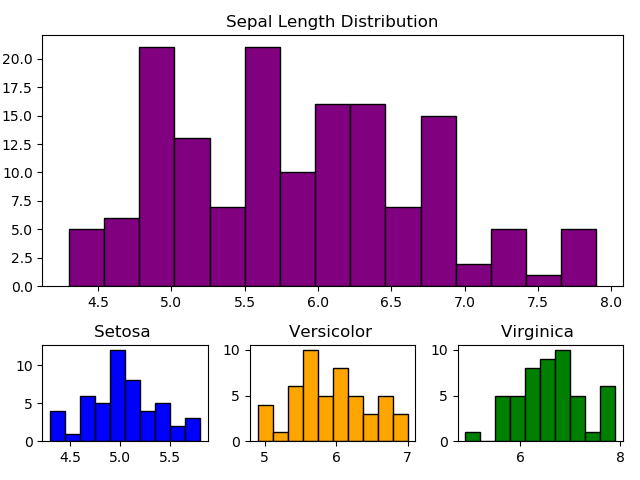
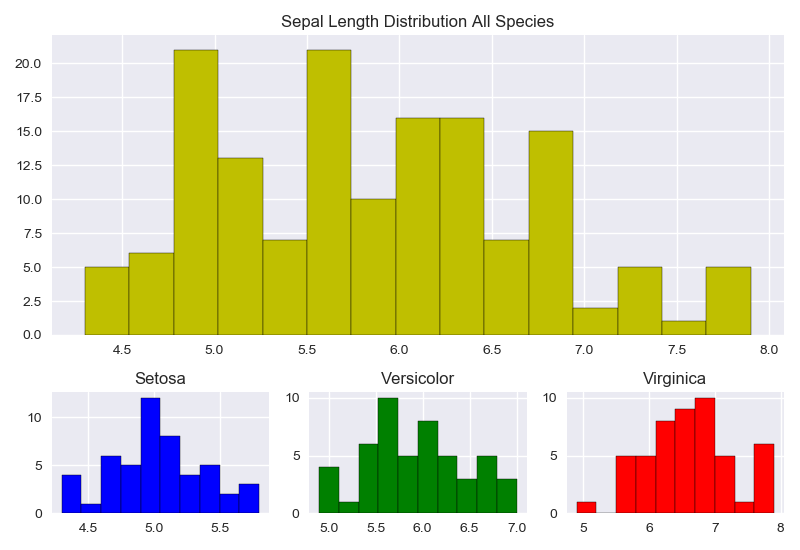
updated structure and comments, output scatter plots, changed list to tuple

diff --git a/analysis.py b/analysis.py
@@ -5,55 +5,83 @@
 # • saves a histogram of each variable to png files, and
 # • outputs a scatter plot of each pair of variables.
 
+# import needed libraries
 import numpy as np
 import pandas as pd
 import matplotlib.pyplot as plt
 import matplotlib.gridspec as gridspec
 import seaborn as sns
 
-def makehist(dict, col_name, title, fileout):
+# Defining a function for creating the output histograms
+# The function takes a number of vars to allow for customisation
+def makehist(dict, col_name, bintup, title, fileout):
+	plt.style.use('seaborn') # using the seaborn style sheet
+	# creating the plot figure fig
 	fig = plt.figure()
+	# using the grid spec method to create shape needed 
+	# for the 1 large hist and 3 smaller hists in figure fig
 	gs = gridspec.GridSpec(3, 3, figure=fig)
+	# adding first and largest hist
 	ax = fig.add_subplot(gs[:2, :])
-	ax.hist(dict["Entire Dataset"][col_name], bins=15, edgecolor="black",color="purple", label="Entire Dataset")
+	ax.hist(dict["Entire Dataset"][col_name], bins=bintup[0], 
+	edgecolor="black",color="y", label="Entire Dataset")
 	ax.set_title(title)
+	# adding next three smaller species hists
 	ax1 = fig.add_subplot(gs[2, 0])
-	ax1.hist(dict["Setosa"][col_name],bins=10, edgecolor="black", color="b", label="Setosa")
-	ax1.set_title("Setosa ")
-	ax2 = fig.add_subplot(gs[2, 1])
-	ax2.hist(dict["Versicolor"][col_name],bins=10, edgecolor="black", color="orange", label="Versicolor")
-	ax2.set_title("Versicolor ")
-	ax3 = fig.add_subplot(gs[2, 2])
-	ax3.hist(dict["Virginica"][col_name],bins=10, edgecolor="black", color="g",label="Virginica")
-	ax3.set_title("Virginica ")
-	fig.tight_layout()
-	fig.savefig(fileout)
+	ax1.hist(dict["Setosa"][col_name],bins=bintup[1], 
+	edgecolor="black", color="b", label="Setosa")
+	ax1.set_title("Setosa")
 
+	ax2 = fig.add_subplot(gs[2, 1])
+	ax2.hist(dict["Versicolor"][col_name],bins=bintup[1], 
+	edgecolor="black", color="g", label="Versicolor")
+	ax2.set_title("Versicolor")
+
+	ax3 = fig.add_subplot(gs[2, 2])
+	ax3.hist(dict["Virginica"][col_name],bins=bintup[1], 
+	edgecolor="black", color="r",label="Virginica")
+	ax3.set_title("Virginica")
+	# using the tight_layout method for better spacing of the plots
+	fig.tight_layout()
+	fig.savefig(fileout) # saving the figures to the file path fileout
+
+# load the iris data csv into a dataframs using pandas
 df = pd.read_csv("iris.csv")
 
+# initialise a dataframe for each species type
 setosa_df = df[df["species"] == "setosa"]
 versicolor_df = df[df["species"] == "versicolor"]
 virginica_df = df[df["species"] == "virginica"]
 
+# create the a brief summary of each dataframe using the describe method
 dfSum = str(df.describe())
 setosaSum = str(setosa_df.describe())
 versicolorSum = str(versicolor_df.describe())
 virginicaSum = str(virginica_df.describe())
 
-df_dict = {"Entire Dataset": df, "Setosa": setosa_df, 
-		"Virginica": virginica_df, "Versicolor": versicolor_df}
-
+# write each summary datafram to the file summary.txt
 with open("summary.txt", "w+") as f:
-	f.write("Total data set summary \n"+dfSum+"\n")
-	f.write("\nSetosa Species summary \n"+setosaSum+"\n")
-	f.write("\nVersicolor Species summary \n"+versicolorSum+"\n")
-	f.write("\nVirginica Species summary \n"+virginicaSum+"\n")
+	f.write("All Species Summary \n"+dfSum+"\n")
+	f.write("\nSetosa Species Summary \n"+setosaSum+"\n")
+	f.write("\nVersicolor Species Summary \n"+versicolorSum+"\n")
+	f.write("\nVirginica Species Summary \n"+virginicaSum+"\n")
 
-makehist(df_dict, "petal_length", "Petal Length Distribution", "Petal Length Histogram.png")
-makehist(df_dict, "petal_width", "Petal Width Distribution", "Petal Width Histogram.png")
-makehist(df_dict, "sepal_width", "Sepal Width Distribution", "Sepal Width Histogram.png")
-makehist(df_dict, "sepal_length", "Sepal Length Distribution", "Sepal Length Histogram.png")
+# create a dictionary with a label as key and dataframe as value
+df_dict = {"Entire Dataset": df, "Setosa": setosa_df, 
+"Virginica": virginica_df, "Versicolor": versicolor_df}
 
+# using the function makehist() create a histogram 
+# for each variable for each dataframe
+makehist(df_dict, "petal_length", (15, 10), 
+"Petal Length Distribution All Species", "Petal Length Histogram.png")
+makehist(df_dict, "petal_width", (15, 10), 
+"Petal Width Distribution All Species", "Petal Width Histogram.png")
+makehist(df_dict, "sepal_width", (15, 10), 
+"Sepal Width Distribution All Species", "Sepal Width Histogram.png")
+makehist(df_dict, "sepal_length", (15, 10), 
+"Sepal Length Distribution All Species", "Sepal Length Histogram.png")
 
-sns.pairplot(df, hue="species")
-plt.show()
+# using the seaborn pairplot method to plot 
+# a scatter plot for each pair of variables in the data
+scat = sns.pairplot(df, hue="species")
+plt.savefig("Scatter Pairs.png")

diff --git a/scratch.py b/scratch.py
@@ -1,0 +1,75 @@
+# def 4Hist(dfList, col):
+# 	ax1, ax2, ax3, ax4 = dfList
+
+# 	fig, (ax1, ax2, ax3, ax4) = plt.subplots(2, 2)
+import numpy as np
+import pandas as pd
+import matplotlib.pyplot as plt
+import matplotlib.gridspec as gridspec
+import seaborn as sns
+
+df = pd.read_csv("iris.csv")
+
+setosa_df = df[df["species"] == "setosa"]
+versicolor_df = df[df["species"] == "versicolor"]
+virginica_df = df[df["species"] == "virginica"]
+
+df_dict = {"Entire Dataset": df, "Setosa": setosa_df, 
+		"Virginica": virginica_df, "Versicolor": versicolor_df}
+
+def makehist(dict, col_name, title, fileout):
+	fig = plt.figure()
+	gs = gridspec.GridSpec(3, 3, figure=fig)
+	ax = fig.add_subplot(gs[:2, :])
+	ax.hist(dict["Entire Dataset"][col_name], bins=15, edgecolor="black",color="purple", label="Entire Dataset")
+	ax.set_title(title)
+	ax1 = fig.add_subplot(gs[2, 0])
+	ax1.hist(dict["Setosa"][col_name],bins=10, edgecolor="black", color="b", label="Setosa")
+	ax1.set_title("Setosa ")
+	ax2 = fig.add_subplot(gs[2, 1])
+	ax2.hist(dict["Versicolor"][col_name],bins=10, edgecolor="black", color="orange", label="Versicolor")
+	ax2.set_title("Versicolor ")
+	ax3 = fig.add_subplot(gs[2, 2])
+	ax3.hist(dict["Virginica"][col_name],bins=10, edgecolor="black", color="g",label="Virginica")
+	ax3.set_title("Virginica ")
+	fig.tight_layout()
+	fig.savefig(fileout)
+
+makehist(df_dict, "petal_length", "Petal Length Distribution", "Petal Length Histogram.png")
+input()
+
+# for col in df.columns:
+# 	fig = plt.figure()
+# 	gs = gridspec.GridSpec(3, 3, figure=fig)
+# 	ax = fig.add_subplot(gs[:2, :])
+# 	ax.hist(df[col],bins=10, edgecolor="black",color="purple", label="Total "+col+" distribution")
+# 	ax1 = fig.add_subplot(gs[2, 0])
+# 	ax1.hist(setosa_df[col],bins=10, edgecolor="black", color="b", label="Setosa")
+# 	ax2 = fig.add_subplot(gs[2, 1])
+# 	ax2.hist(versicolor_df[col],bins=10, edgecolor="black", color="orange", label="Versicolor")
+# 	ax3 = fig.add_subplot(gs[2, 2])
+# 	ax3.hist(virginica_df[col],bins=10, edgecolor="black", color="g",label="Virginica")
+# 	fig.suptitle(str(col)+" Total Distribution")
+# 	# fig.ylabel("Frequency")
+# 	# fig.xlabel(col)	
+# 	fig.savefig(col+".png")
+# 	#plt.clf()
+
+for col in df.columns:
+	fig = plt.figure()
+	gs = gridspec.GridSpec(3, 3, figure=fig)
+	ax = fig.add_subplot(gs[:2, :])
+	ax.hist(df[col],bins=10, edgecolor="black",color="purple", label="Total "+col+" distribution")
+	ax1 = fig.add_subplot(gs[2, 0])
+	ax1.hist(setosa_df[col],bins=10, edgecolor="black", color="b", label="Setosa")
+	ax2 = fig.add_subplot(gs[2, 1])
+	ax2.hist(versicolor_df[col],bins=10, edgecolor="black", color="orange", label="Versicolor")
+	ax3 = fig.add_subplot(gs[2, 2])
+	ax3.hist(virginica_df[col],bins=10, edgecolor="black", color="g",label="Virginica")
+	fig.suptitle(str(col)+" Total Distribution")
+	fig.tight_layout()
+	fig.legend()
+	# fig.ylabel("Frequency")
+	# fig.xlabel(col)	
+	fig.savefig(col+".png")
+	#plt.clf()
